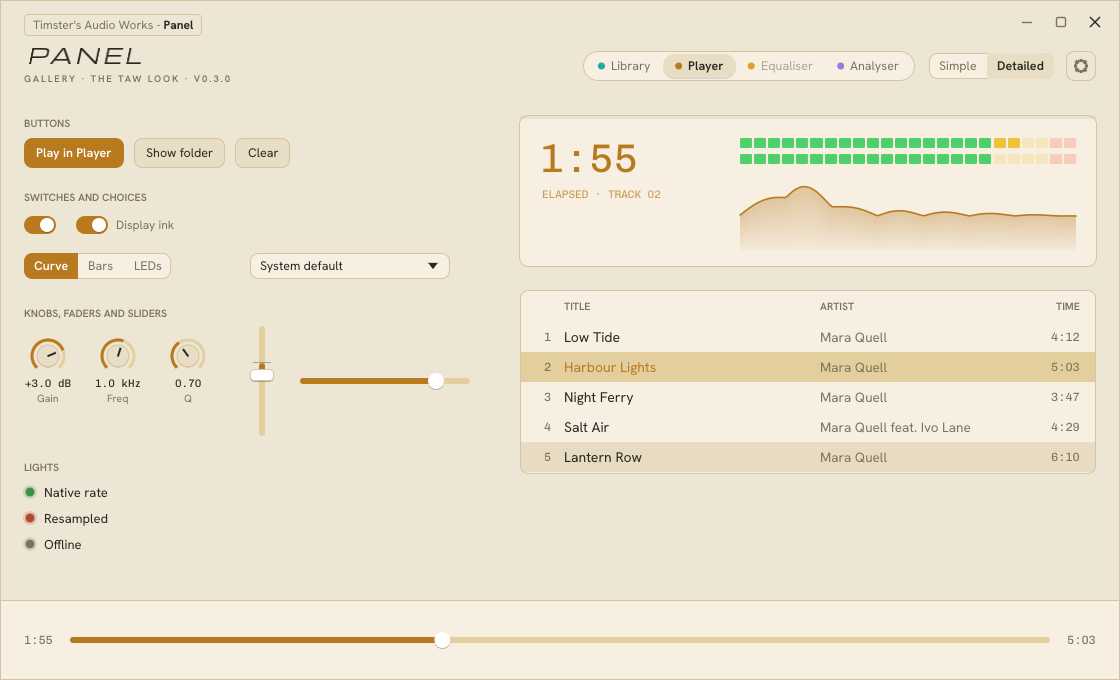
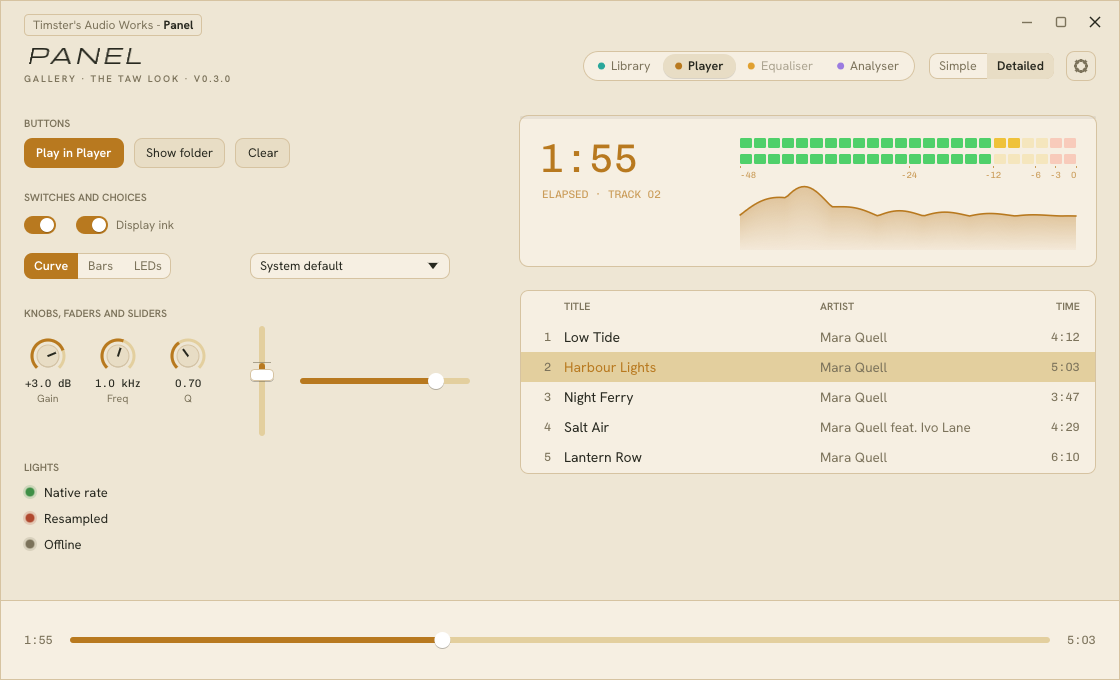
TAW Panel 0.3.1: a dB scale for the meters
hifi::meter_scale draws a tick and a figure at 0, -3, -6, -12, -24 and
-48 dB under a meter, in the display's ink, dropping figures that won't
fit on a narrow meter. meter_x gives where a level falls along a meter.
For the Player's meters (user feedback from Linux Mint). Nothing
existing changed; the gallery shows the scale.

Plans renumbered: the resizable list is now 0.4.0, meters part 2 0.5.0.

Claude-Session: https://claude.ai/code/session_01Y1Ea8eeqd91csYPNwbKzhV

Changed region(s): [[0.4375, 0.6485, 1.0, 0.7103]]

diff --git a/src/hifi.rs b/src/hifi.rs
@@ -1341,12 +1341,11 @@ pub fn hslider(ui: &mut Ui, r: Rect, id: Id, t: &Tokens, v: &mut f32, spec: &Spe
 /// A one-row segmented level meter from −48 to 0 dBFS: green, amber above
 /// −12 dB, red above −3 dB.
 pub fn meter(p: &Painter, r: Rect, t: &Tokens, db: f32) {
-    const SEGS: usize = 24;
-    let gap = 2.0;
-    let w = (r.width() - gap * (SEGS - 1) as f32) / SEGS as f32;
-    let lit = ((db + 48.0) / 48.0 * SEGS as f32).ceil() as i32;
+    const SEGS: usize = METER_SEGMENTS;
+    let (w, gap) = meter_segment(r);
+    let lit = ((db - METER_FLOOR_DB) / -METER_FLOOR_DB * SEGS as f32).ceil() as i32;
     for s in 0..SEGS {
-        let seg_db = -48.0 + 48.0 * (s as f32 + 1.0) / SEGS as f32;
+        let seg_db = METER_FLOOR_DB - METER_FLOOR_DB * (s as f32 + 1.0) / SEGS as f32;
         let base = if seg_db > -3.0 {
             hex(0xff4a30)
         } else if seg_db > -12.0 {
@@ -1368,6 +1367,70 @@ pub fn meter(p: &Painter, r: Rect, t: &Tokens, db: f32) {
             CornerRadius::same(1),
             c,
         );
+    }
+}
+
+/// The level at the left end of `meter`; it lights from here up to 0 dB.
+pub const METER_FLOOR_DB: f32 = -48.0;
+const METER_SEGMENTS: usize = 24;
+
+/// The levels `meter_scale` marks, in dB, in the order they're kept when
+/// a narrow meter has no room for all of them.
+pub const METER_MARKS: [f32; 6] = [0.0, -48.0, -24.0, -12.0, -6.0, -3.0];
+
+/// A meter segment's width and the gap after it, for a meter drawn in `r`.
+fn meter_segment(r: Rect) -> (f32, f32) {
+    let gap = 2.0;
+    let w = (r.width() - gap * (METER_SEGMENTS - 1) as f32) / METER_SEGMENTS as f32;
+    (w, gap)
+}
+
+/// Where `db` falls along a meter drawn in `r`, following its segments and
+/// the gaps between them: the left edge at the floor, the right edge at 0 dB.
+pub fn meter_x(r: Rect, db: f32) -> f32 {
+    let (w, gap) = meter_segment(r);
+    let pos = ((db - METER_FLOOR_DB) / -METER_FLOOR_DB).clamp(0.0, 1.0) * METER_SEGMENTS as f32;
+    if pos >= METER_SEGMENTS as f32 {
+        return r.right();
+    }
+    let s = pos.floor();
+    r.left() + s * (w + gap) + (pos - s) * w
+}
+
+/// A dB scale for `meter`: a tick and a figure at each of `METER_MARKS`.
+/// `meter_r` is the meter it labels; the scale is drawn just under it and
+/// takes about 12 px. On a narrow meter, figures that would touch one
+/// already placed are left out (0 dB and the floor always stay).
+pub fn meter_scale(p: &Painter, meter_r: Rect, t: &Tokens) {
+    let font = num(9.0);
+    let c = t.ink_faint(0.7);
+    let top = meter_r.bottom() + 2.0;
+    let mut placed: Vec<Rect> = Vec::new();
+    for db in METER_MARKS {
+        let x = meter_x(meter_r, db);
+        let s = if db == 0.0 {
+            "0".to_string()
+        } else {
+            format!("-{}", -db as i32)
+        };
+        let w = text_width(p, &s, font.clone());
+        let (left, align) = if db >= 0.0 {
+            (x - w, Align2::RIGHT_TOP)
+        } else if db <= METER_FLOOR_DB {
+            (x, Align2::LEFT_TOP)
+        } else {
+            (x - w / 2.0, Align2::CENTER_TOP)
+        };
+        let slot = Rect::from_min_size(Pos2::new(left - 3.0, top), Vec2::new(w + 6.0, 10.0));
+        if placed.iter().any(|o| o.intersects(slot)) {
+            continue;
+        }
+        placed.push(slot);
+        p.line_segment(
+            [Pos2::new(x, top), Pos2::new(x, top + 2.0)],
+            Stroke::new(1.0, c),
+        );
+        label(p, Pos2::new(x, top + 2.5), align, &s, font.clone(), c);
     }
 }
 
@@ -1604,6 +1667,22 @@ pub fn look_settings(ui: &mut Ui, t: &Tokens, look: &mut Look) -> bool {
 #[cfg(test)]
 mod tests {
     use super::*;
+
+    #[test]
+    fn meter_x_follows_the_segments() {
+        let r = Rect::from_min_size(Pos2::new(100.0, 0.0), Vec2::new(478.0, 10.0));
+        assert_eq!(meter_x(r, METER_FLOOR_DB), r.left());
+        assert_eq!(meter_x(r, 0.0), r.right());
+        assert_eq!(meter_x(r, -90.0), r.left());
+        assert_eq!(meter_x(r, 6.0), r.right());
+        // 24 segments of 18 px with 2 px gaps: -24 dB is the start of the 13th.
+        assert!((meter_x(r, -24.0) - (100.0 + 12.0 * 20.0)).abs() < 0.01);
+        let xs: Vec<f32> = [-48.0, -24.0, -12.0, -6.0, -3.0, 0.0]
+            .iter()
+            .map(|&db| meter_x(r, db))
+            .collect();
+        assert!(xs.windows(2).all(|w| w[0] < w[1]));
+    }
 
     #[test]
     fn default_is_spool_light_amber() {

diff --git a/examples/gallery.rs b/examples/gallery.rs
@@ -296,15 +296,14 @@ impl eframe::App for Gallery {
         );
         let mx = d.left() + 220.0;
         for (c, db) in [-9.0f32, -12.0].into_iter().enumerate() {
-            hifi::meter(
-                p,
-                Rect::from_min_size(
-                    Pos2::new(mx, d.top() + 22.0 + c as f32 * 16.0),
-                    Vec2::new(d.right() - 20.0 - mx, 10.0),
-                ),
-                &t,
-                db,
+            let m = Rect::from_min_size(
+                Pos2::new(mx, d.top() + 22.0 + c as f32 * 16.0),
+                Vec2::new(d.right() - 20.0 - mx, 10.0),
             );
+            hifi::meter(p, m, &t, db);
+            if c == 1 {
+                hifi::meter_scale(p, m, &t);
+            }
         }
         let base = d.bottom() - 16.0;
         let pts: Vec<Pos2> = (0..=120)

diff --git a/ROADMAP.md b/ROADMAP.md
@@ -8,9 +8,8 @@ Sizes: S = one session, M = two or three, L = a release of its own.
 
 | Release | What | For | Size |
 |---|---|---|---|
-| 0.4.0 | **Meter scale:** a dB scale for `hifi::meter` (0, −3, −6, −12, −24, −48), drawn in the display's ink, as a new function so existing callers build unchanged | Player 0.2.0 (user feedback, 2026-10-14); the Equaliser and Analyser can use it too | S |
-| 0.5.0 | **The resizable list:** drag a pane edge or column divider, double-click to fit, one flexible column takes the spare room, header right-click shows or hides columns, widths saved per view (serde, with defaults) | Library 0.4.0, then the Player | M |
-| 0.6.0 | **Meters, part 2:** Spool's meter scale (20 segments, 1 dB a step at the top) with four peak LEDs and hold; an analogue VU meter widget | Player's meters and VU window; the Equaliser and Analyser | M |
+| 0.4.0 | **The resizable list:** drag a pane edge or column divider, double-click to fit, one flexible column takes the spare room, header right-click shows or hides columns, widths saved per view (serde, with defaults) | Library 0.4.0, then the Player | M |
+| 0.5.0 | **Meters, part 2:** Spool's meter scale (20 segments, 1 dB a step at the top) with four peak LEDs and hold; an analogue VU meter widget | Player's meters and VU window; the Equaliser and Analyser | M |
 | parked | More finishes (Bronze, Cassette, Walnut, Studio), then skins (below) | When the apps are settled | L |
 
 If the Player's bottom-corner resize problem (2026-10-14, Linux Mint) turns out to be in `hifi::resize_edges`, the fix is a patch release ahead of all of these.
@@ -42,3 +41,4 @@ Reviewed on 2026-10-13 and parked until the Equaliser is tested and the Player r
 - [x] 0.1.0: the shared look from the Equaliser plus the Library's list pieces
 - [x] 0.2.0: spectrum drawing and the analyser (feature `analyser`)
 - [x] 0.3.0: `hifi`, the TAW look (Spool and Porcelain; light, dark, automatic), used by all four apps
+- [x] 0.3.1: `hifi::meter_scale`, a dB scale for the meters, for Player 0.2.0

diff --git a/HANDOFF.md b/HANDOFF.md
@@ -7,10 +7,10 @@ Written 2026-10-14 when the family's work moved from one shared chat to a chat p
 - **0.3.0 released on 2026-10-14** (commit `1b8162d`, merged to `main`): adds **`hifi`**, the TAW look. Spool finish (default, Light, Amber; Spool's seven colour themes tint the whole panel) and Porcelain; Light, Dark, Automatic; Hanken Grotesk and Chivo Mono; nameplate, window buttons, drag and resize for frameless windows; buttons, switches, segmented controls, family switcher, menus, knobs, faders, sliders, display, wells, meters, settings drawer. An Anodised finish was tried and dropped; "Anodised" in saved settings loads as Spool. The Jupiter look is unchanged.
 - `docs/finishes-review.html` (v2) and `-v1.html` (all seven finishes): the mock-ups the user reviewed.
 - All four apps pin `1b8162d` and are released in the TAW look: Library 0.3.0, Player 0.1.0, Equaliser 0.3.0, Analyser 0.2.0.
+- **0.3.1 released on 2026-10-14**: `hifi::meter_scale`, a dB scale under the meters, for Player 0.2.0. Nothing else changed.
 - `cargo run --example gallery` shows every `hifi` piece (add `porcelain dark` and the like to start on a look); `cargo run --example jupiter` shows the Box instruments' Jupiter look.
 
 ## Next
 
-1. 0.4.0: a dB scale for the meters, for Player 0.2.0 (see ROADMAP.md).
-2. 0.5.0: a resizable list (panes and columns) for the Library and Player.
-3. Keep FAMILY.md and docs/TRACKER.md current; parked ideas live in FAMILY.md.
+1. 0.4.0: a resizable list (panes and columns) for the Library and Player (see ROADMAP.md).
+2. Keep FAMILY.md and docs/TRACKER.md current; parked ideas live in FAMILY.md.

diff --git a/README.md b/README.md
@@ -19,7 +19,7 @@ All the typefaces are built in, under the OFL.
 
 | Module | What's in it |
 |---|---|
-| `hifi` | The TAW look. `Look` (`Finish`, `Build`, `Accent`) and the `Tokens` it resolves to; `install_fonts`, `apply_visuals`; `faceplate`, `bar`, `well`, `display`; `nameplate`, `window_buttons`, `drag_to_move`, `resize_edges`; `button`, `switch`, `labelled_switch`, `segmented`, `family_switch`, `gear_button`, `select`, `knob`, `vfader`, `hslider`, `meter`, `status_light`, `ink_text`, `ink_curve`; `drawer` and `look_settings` |
+| `hifi` | The TAW look. `Look` (`Finish`, `Build`, `Accent`) and the `Tokens` it resolves to; `install_fonts`, `apply_visuals`; `faceplate`, `bar`, `well`, `display`; `nameplate`, `window_buttons`, `drag_to_move`, `resize_edges`; `button`, `switch`, `labelled_switch`, `segmented`, `family_switch`, `gear_button`, `select`, `knob`, `vfader`, `hslider`, `meter`, `meter_scale`, `status_light`, `ink_text`, `ink_curve`; `drawer` and `look_settings` |
 | `theme` | The Jupiter look: `Theme` (Black or Silver), `KnobStyle`, the key colours (`K_RED` … `K_GREY`), lights and display colours, `install_fonts` and `font` |
 | `widgets` | Jupiter controls: `key`, `lit_key`, `knob`, `fader`, `lcd`, `lcd_combo`, `readout`, `meter`, `ladder`, `section`, `frame_tab`, `stripe`, `led`, text helpers; and `Spec`, the range of a control, used by both looks |
 | `lists` | `rows` (a scrolling list that only draws what's on screen), `fit`, `thousands`, `ago`, and Jupiter list pieces (`well`, `row_bg`, `header`, `chip`, `light`) |

diff --git a/CHANGELOG.md b/CHANGELOG.md
@@ -2,7 +2,11 @@
 
 ## Unreleased
 
-- The `gallery` example shows the TAW look (`hifi`), every piece on one page, and can start on any look (`gallery porcelain dark`). The Jupiter page is now the `jupiter` example. Nothing in the crate changed.
+## 0.3.1 – 2026-10-14
+
+- `hifi::meter_scale`: a dB scale for `hifi::meter` (0, −3, −6, −12, −24, −48), a tick and a figure at each, drawn under the meter in the display's ink; figures that won't fit on a narrow meter are left out. With it, `meter_x` (where a level falls along a meter) and the constants `METER_FLOOR_DB` and `METER_MARKS`. For the Player's meters (user feedback, 2026-10-14).
+- The `gallery` example shows the TAW look (`hifi`), every piece on one page, and can start on any look (`gallery porcelain dark`). The Jupiter page is now the `jupiter` example.
+- Nothing existing changed: 0.3.0 callers build unchanged, and `meter` looks the same.
 
 ## 0.3.0 – 2026-10-14
 

diff --git a/docs/TRACKER.md b/docs/TRACKER.md
@@ -8,7 +8,7 @@ Last checked: **2026-10-14**, against `main` of all five repos.
 
 | Project | Released | Panel pin | Now | Waiting on | Next release |
 |---|---|---|---|---|---|
-| TAW-Panel | 0.3.0 | — | Gallery shows the TAW look (unreleased, docs and example only) | Player's meter-scale request | 0.4.0: meter scale |
+| TAW-Panel | 0.3.1 | — | 0.3.1 adds the meter scale for Player 0.2.0 | — | 0.4.0: resizable list |
 | Library (LB-001) | 0.3.0 | 0.3.0 | Released in the TAW look | The user's review of the look | 0.3.x: review fixes |
 | Player (PL-001) | 0.1.0 | 0.3.0 | Tested on Linux Mint; brief written for 0.2.0 | The Player session to pick up the brief | 0.2.0: feedback release |
 | Equaliser (EQ-001) | 0.3.0 | 0.3.0 | README screenshots updated (PR #3) | The user's test on real Windows | 0.3.x: Windows fixes |
